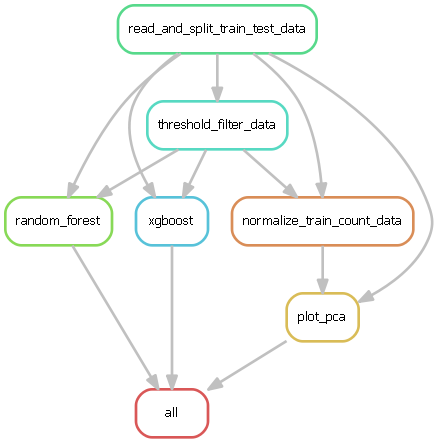
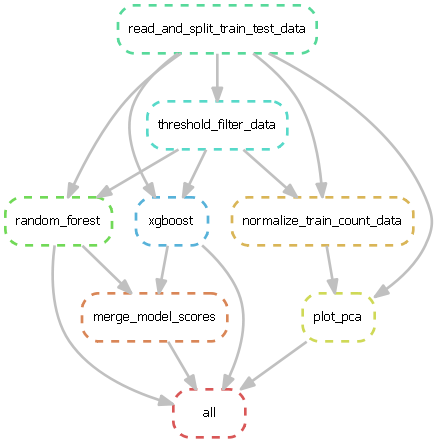
Add AUC score
add auc score and some cleanup

diff --git a/scripts/feature_selection/run_feature_selection.py b/scripts/feature_selection/run_feature_selection.py
@@ -60,7 +60,6 @@ def plot_feature_importance(X, feature_importances, output_path_plot):
     os.makedirs(os.path.dirname(output_path_plot), exist_ok=True)
     plt.savefig(output_path_plot, dpi=300, format="png")
 
-
 def hyperopt(X, y, model, space, max_evals):
     """Perform hyperopt search cross validation."""
     def objective(params):
@@ -150,7 +149,7 @@ def run_feature_selection(
     if hyperparameter_optimization_method == "gridsearch":
         gridsearch = GridSearchCV(pipeline, param_grid=param_grid, cv=cv, n_jobs=-1, verbose=verbose, scoring=scoring, refit=refit)
     elif hyperparameter_optimization_method == "randomsearch":
-        gridsearch = RandomizedSearchCV(pipeline, param_distributions=param_grid, cv=cv, n_jobs=-1, verbose=10, scoring=scoring, refit=refit)
+        gridsearch = RandomizedSearchCV(pipeline, param_distributions=param_grid, cv=cv, n_jobs=-1, verbose=verbose, scoring=scoring, refit=refit)
     else:
         raise ValueError(f"Hyperparameter optimization method {hyperparameter_optimization_method} not supported.")
 
@@ -165,7 +164,7 @@ def run_feature_selection(
 
     # print(f"Best hyperparameters: {gridsearch.best_params_}")
     # print(f"Best AUC score: {gridsearch.best_score_:.4f}")
-    
+
     write_hyperparameters_to_file(gridsearch.best_params_, output_path_hyperparams)
     save_model(gridsearch.best_estimator_.named_steps["classifier"], output_path_model)
     write_feature_importance_to_file(
@@ -181,7 +180,18 @@ def run_feature_selection(
 
     all_scores = pd.DataFrame(
         gridsearch.cv_results_,
-        columns=["mean_test_accuracy", "std_test_accuracy", "mean_test_precision", "std_test_precision", "mean_test_recall", "std_test_recall", "mean_test_f1", "std_test_f1"],
+        columns=[
+            "mean_test_roc_auc",
+            "std_test_roc_auc",
+            "mean_test_accuracy",
+            "std_test_accuracy",
+            "mean_test_precision",
+            "std_test_precision",
+            "mean_test_recall",
+            "std_test_recall",
+            "mean_test_f1",
+            "std_test_f1",
+        ],
         index=[feature_selection_method],
     ).round(4)
     os.makedirs(os.path.dirname(output_path_scores), exist_ok=True)
